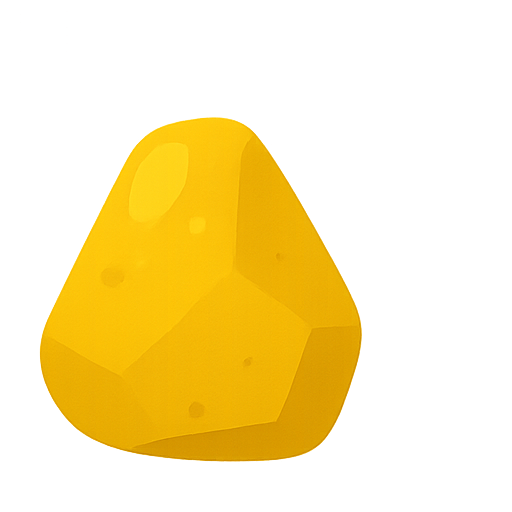
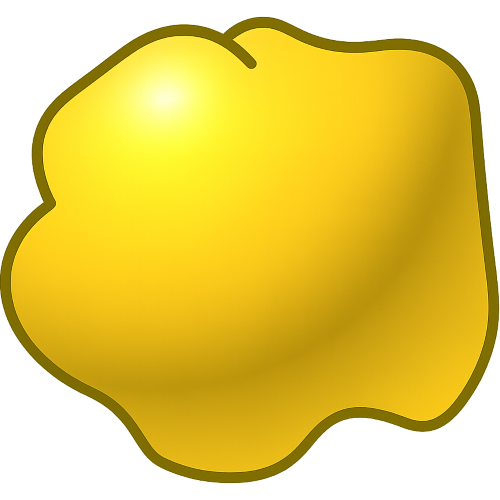
UX Game

diff --git a/scenes/RentedMineGameScene.js b/scenes/RentedMineGameScene.js
@@ -13,6 +13,8 @@ class RentedMineGameScene extends Phaser.Scene {
         // Vật phẩm đang được hook móc
         this.hookedItem = null;
         this.gameOver = false;
+        // Thêm biến theo dõi trạng thái touch
+        this.isTouching = false;
 
         // Các tham số cho chuyển động lắc lư
         this.swingAngle = 0; // Góc lắc hiện tại
@@ -32,12 +34,12 @@ class RentedMineGameScene extends Phaser.Scene {
         this.load.image('wood', 'assets/images/wood.png');
         this.load.image('back', 'assets/images/back.png');
         this.load.image('hook', 'assets/images/hook.png');
-        this.load.image('gold-small', 'assets/images/gold-1.png');
-        this.load.image('gold-medium', 'assets/images/gold-2.png');
+        this.load.image('gold-small', 'assets/images/gold-3.png');
+        this.load.image('gold-medium', 'assets/images/gold-3.png');
         this.load.image('gold-large', 'assets/images/gold-3.png');
         this.load.image('rock-small', 'assets/images/rock-1.png');
-        this.load.image('rock-medium', 'assets/images/rock-2.png');
-        this.load.image('rock-large', 'assets/images/rock-3.png');
+        this.load.image('rock-medium', 'assets/images/rock-1.png');
+        this.load.image('rock-large', 'assets/images/rock-1.png');
         this.load.image('shop-button', 'assets/images/shop.png');
         this.load.audio('boom', 'assets/sounds/boom.mp3');
         this.load.audio('mine', 'assets/sounds/mine.mp3');
@@ -54,6 +56,7 @@ class RentedMineGameScene extends Phaser.Scene {
         this.hookedItem = null;
         this.swingAngle = 0;
         this.swingDirection = 1;
+        this.isTouching = false;
 
         // Lấy kích thước màn hình game
         const gameWidth = this.scale.width;
@@ -89,7 +92,8 @@ class RentedMineGameScene extends Phaser.Scene {
         this.rope = this.add.graphics();
         this.hook = this.physics.add.image(gameWidth / 2, 0, 'hook');
         this.hook.setOrigin(0.5, 0.5);
-        this.hook.setDisplaySize(20, 20);
+        this.hook.setDisplaySize(30, 30);
+        this.hook.body.setSize(40, 40);
         // Thiết lập ranh giới thế giới game
         this.physics.world.setBounds(0, 0, gameWidth, gameHeight);
 
@@ -108,11 +112,7 @@ class RentedMineGameScene extends Phaser.Scene {
         // Tạo vàng và đá
         this.treasures = this.physics.add.group();
         this.spawnTreasures(gameWidth, gameHeight);
-
-        // Tạo các phần tử giao diện người dùng
-
-
-
+        
         // Score
         this.bg_scoreText = this.add.image(0, 0, `wood`)
             .setScale(0.25, 0.1)
@@ -143,6 +143,39 @@ class RentedMineGameScene extends Phaser.Scene {
         // Thiết lập điều khiển bàn phím cho các phím mũi tên
         this.cursors = this.input.keyboard.createCursorKeys();
 
+        // Thêm xử lý sự kiện touch
+        this.input.on('pointerdown', (pointer) => {
+            this.isTouching = true;
+            
+            // Nếu đang móc đá và có pháo, sử dụng pháo
+            if (this.hookedItem && 
+                this.hookedItem.getData('type') === 'rock' && 
+                gameState.upgrades.hasDynamite > 0) {
+                gameState.upgrades.hasDynamite = gameState.upgrades.hasDynamite - 1;
+                this.hookedItem.destroy();
+                this.hookedItem = null;
+                this.sound.play('boom');
+                // Hiển thị hiệu ứng nổ
+                this.exploxer = this.add.circle(this.hook.x, this.hook.y, 30, 0xff0000).setAlpha(0.8);
+                this.tweens.add({
+                    targets: this.exploxer,
+                    scale: { from: 3, to: 0 },
+                    duration: 500,
+                    ease: 'Power2'
+                });
+                setTimeout(() => {
+                    this.exploxer.destroy();
+                }, 500);
+            }
+            // Nếu không đang mở rộng hoặc thu hồi, bắt đầu mở rộng
+            else if (!this.hookExtending && !this.hookRetracting) {
+                this.hookExtending = true;
+            }
+        });
+
+        this.input.on('pointerup', () => {
+            this.isTouching = false;
+        });
     }
     // Xử lý khi hook va chạm với ranh giới thế giới
     onHitWorldBounds(up, down, left, right) {
@@ -159,8 +192,8 @@ class RentedMineGameScene extends Phaser.Scene {
         // Cập nhật chuyển động lắc của hook
         this.updateHookSwing(gameWidth, gameHeight);
 
-        // Kiểm tra phím mũi tên xuống để mở rộng hook
-        if ((this.cursors.down.isDown || this.cursors.space.isDown) && !this.hookExtending && !this.hookRetracting) {
+        // Kiểm tra phím mũi tên xuống hoặc touch để mở rộng hook
+        if ((this.cursors.down.isDown || this.cursors.space.isDown || this.isTouching) && !this.hookExtending && !this.hookRetracting) {
             this.hookExtending = true;
         }
 
@@ -181,7 +214,7 @@ class RentedMineGameScene extends Phaser.Scene {
         if (this.hookedItem) {
             // Đặt vị trí vật phẩm bên dưới hook
             this.hookedItem.x = this.hook.x;
-            this.hookedItem.y = this.hook.y + 20;
+            this.hookedItem.y = this.hook.y;
         }
 
         // Kiểm tra va chạm với vật phẩm chỉ khi hook đang mở rộng
@@ -234,19 +267,19 @@ class RentedMineGameScene extends Phaser.Scene {
 
         // Định nghĩa kích thước cho va chạm
         const itemSizes = {
-            'gold-small': { width: 30, height: 30 },
-            'gold-medium': { width: 40, height: 40 },
-            'gold-large': { width: 50, height: 50 },
-            'rock-small': { width: 30, height: 30 },
-            'rock-medium': { width: 40, height: 40 },
-            'rock-large': { width: 50, height: 50 }
+            'gold-small': { width: 0.04, height: 0.04 },
+            'gold-medium': { width: 0.055, height: 0.055 },
+            'gold-large': { width: 0.075, height: 0.075 },
+            'rock-small':  { width: 0.04, height: 0.04 },
+            'rock-medium':{ width: 0.055, height: 0.055 },
+            'rock-large': { width: 0.075, height: 0.075 }
         };
 
         // Tạo vàng và đá ngẫu nhiên
         for (let i = 0; i < 45; i++) {
             // Điều chỉnh khu vực tạo theo kích thước màn hình
             const x = Phaser.Math.Between(50, gameWidth - 50);
-            const y = Phaser.Math.Between(400, gameHeight - 50);
+            const y = Phaser.Math.Between(450, gameHeight - 50);
 
             if (Phaser.Math.Between(1, 10) <= 4) {
                 // Chọn kích thước vàng ngẫu nhiên
@@ -275,8 +308,7 @@ class RentedMineGameScene extends Phaser.Scene {
 
                 // Điều chỉnh kích thước hình ảnh vàng theo kích thước va chạm
                 const goldSizeInfo = itemSizes[goldKey];
-                gold.setDisplaySize(goldSizeInfo.width, goldSizeInfo.height);
-
+                gold.setScale(goldSizeInfo.width, goldSizeInfo.height);
                 gold.setData('value', goldValue);
                 gold.setData('type', 'gold');
                 gold.setData('size', goldSize); // Lưu kích thước để tính tốc độ kéo
@@ -286,7 +318,7 @@ class RentedMineGameScene extends Phaser.Scene {
                 gold.body.immovable = true;
 
                 // Cập nhật thân vật lý để khớp với kích thước hiển thị
-                gold.body.setSize(goldSizeInfo.width, goldSizeInfo.height);
+                
             } else {
                 // Chọn kích thước đá ngẫu nhiên
                 const rockType = Phaser.Math.Between(1, 3);
@@ -314,8 +346,7 @@ class RentedMineGameScene extends Phaser.Scene {
 
                 // Điều chỉnh kích thước hình ảnh đá theo kích thước va chạm
                 const rockSizeInfo = itemSizes[rockKey];
-                rock.setDisplaySize(rockSizeInfo.width, rockSizeInfo.height);
-                rock.body.setSize(rockSizeInfo.width * 20, rockSizeInfo.height);
+                rock.setScale(rockSizeInfo.width, rockSizeInfo.height);
                 rock.setData('type', 'rock');
                 rock.setData('value', rockValue);
                 rock.setData('size', rockSize); // Lưu kích thước để tính tốc độ kéo

diff --git a/game.js b/game.js
@@ -13,7 +13,7 @@ const config = {
         default: 'arcade', // Sử dụng phương thức vật lý arcade
         arcade: {
             gravity: { y: 0 }, // Không có trọng lực
-            debug: false // Không hiển thị debug
+            debug: true // Không hiển thị debug
         }
     },
     parent: 'game-container',
@@ -21,10 +21,10 @@ const config = {
         createContainer: true
     },
     scene: [
-        StartScene,
-        AuthScene,
-        SelectGameScene,
-        InputMineScene,
+        // StartScene,
+        // AuthScene,
+        // SelectGameScene,
+        // InputMineScene,
         RentedMineGameScene,
         ShopScene
     ] // Các scene sẽ được hiển thị trong game
